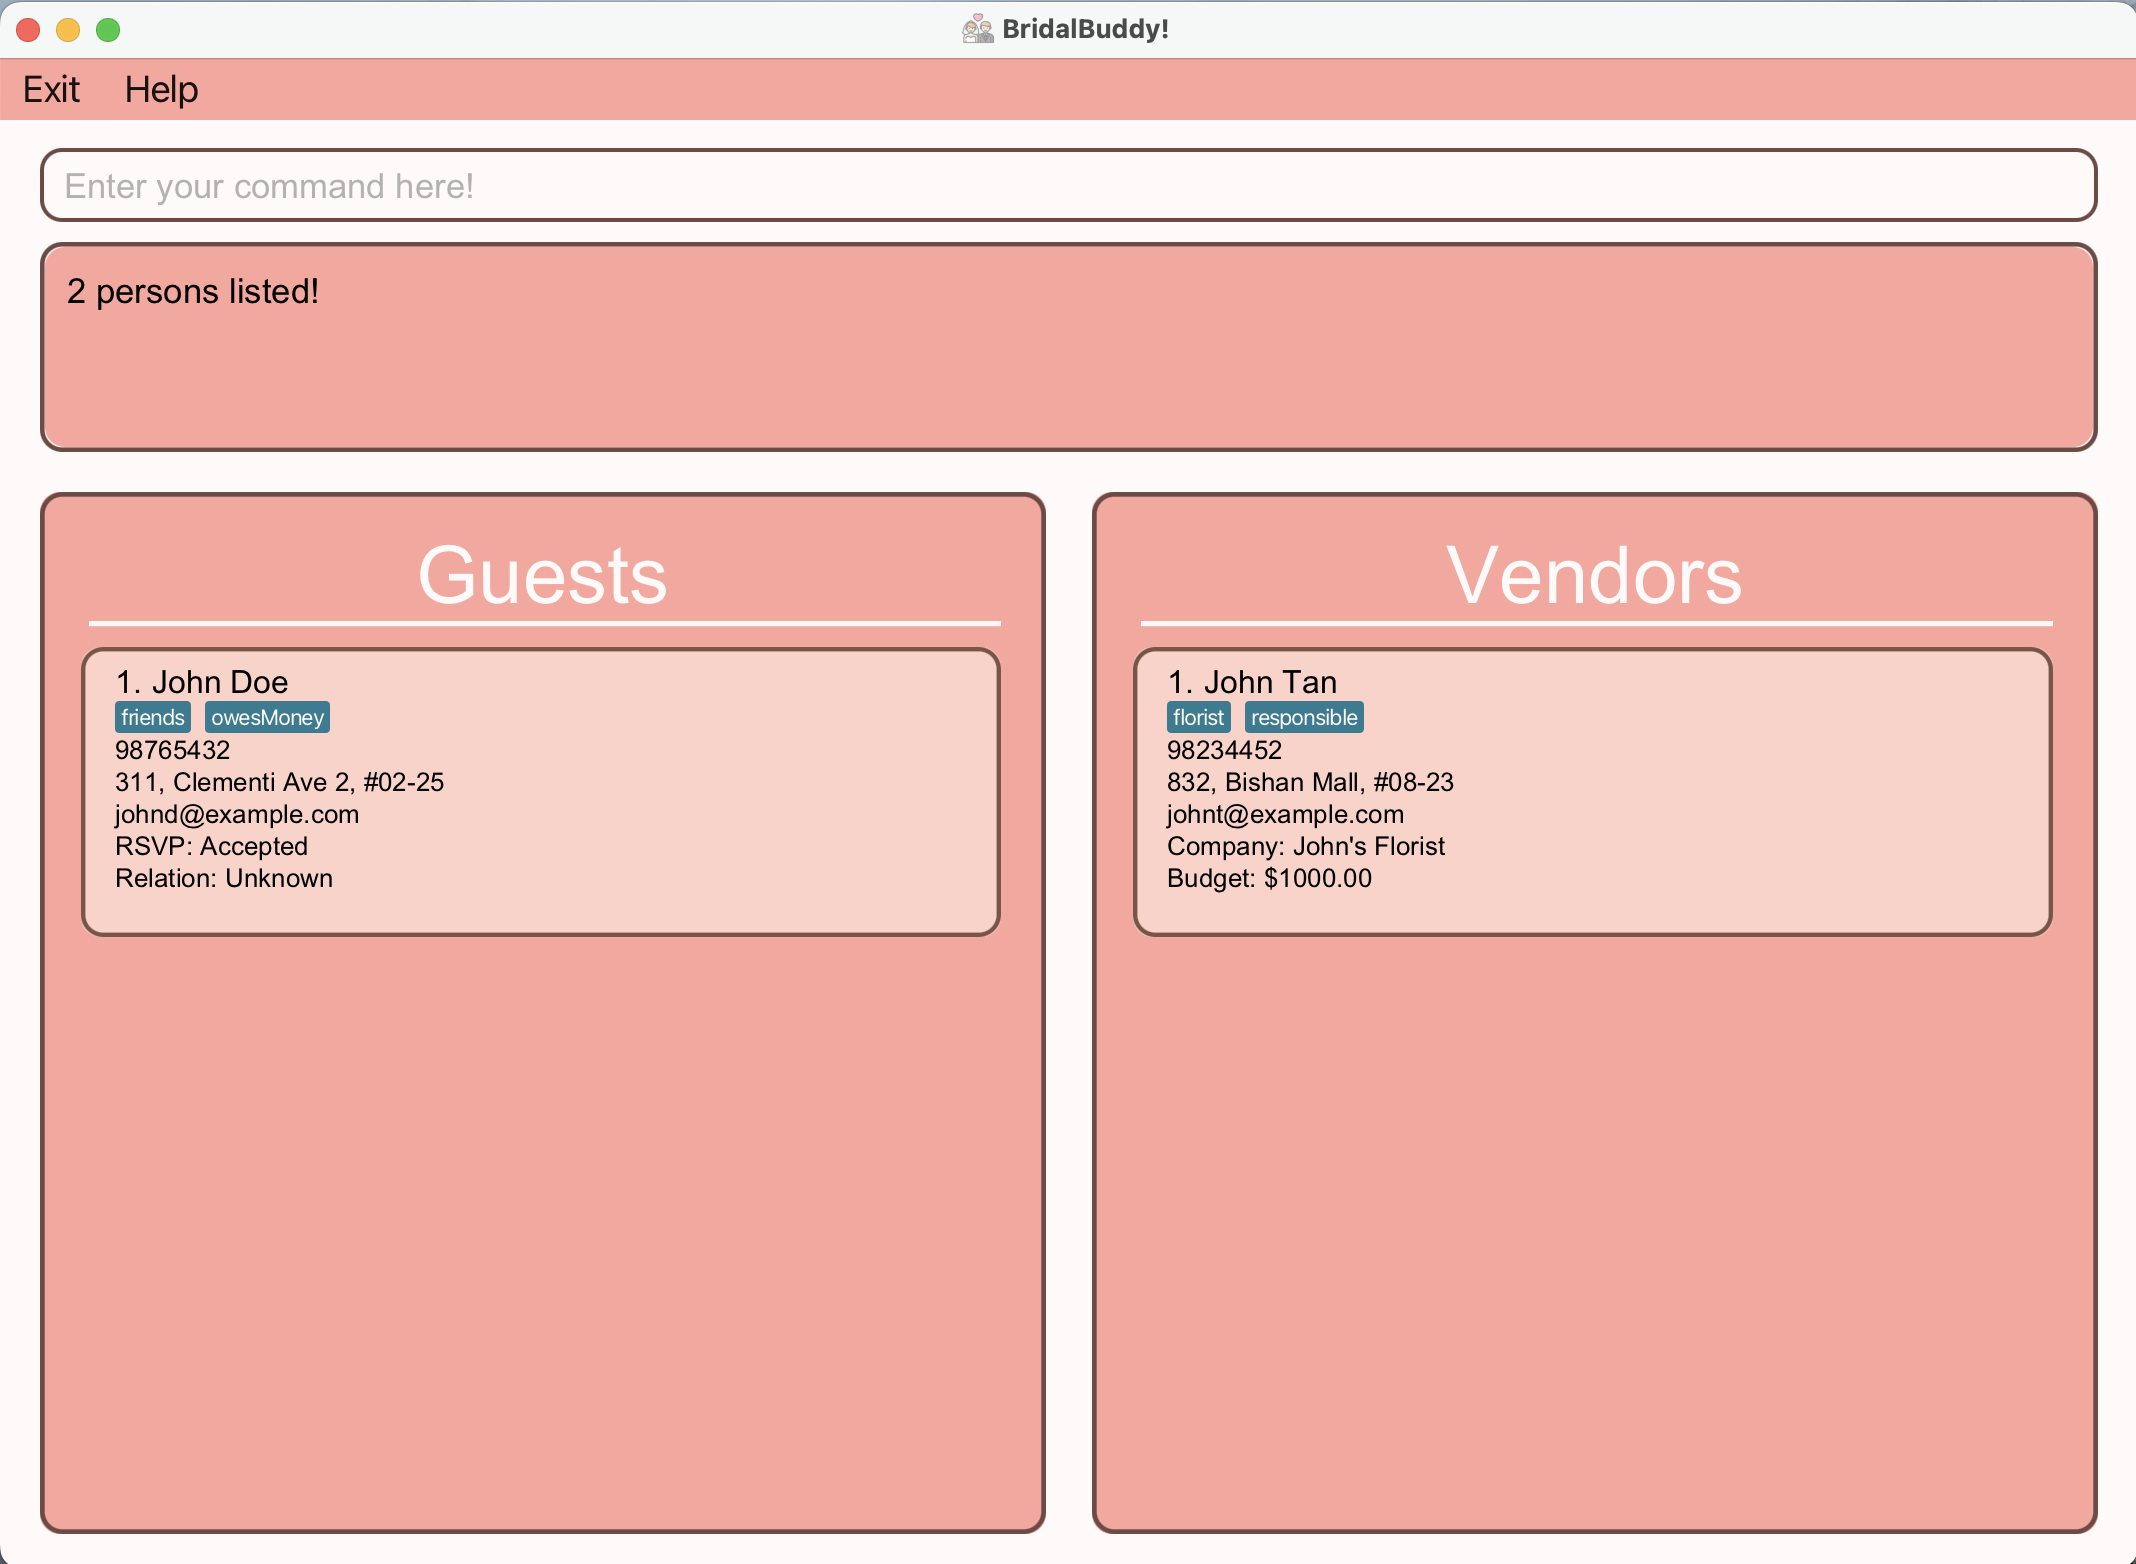
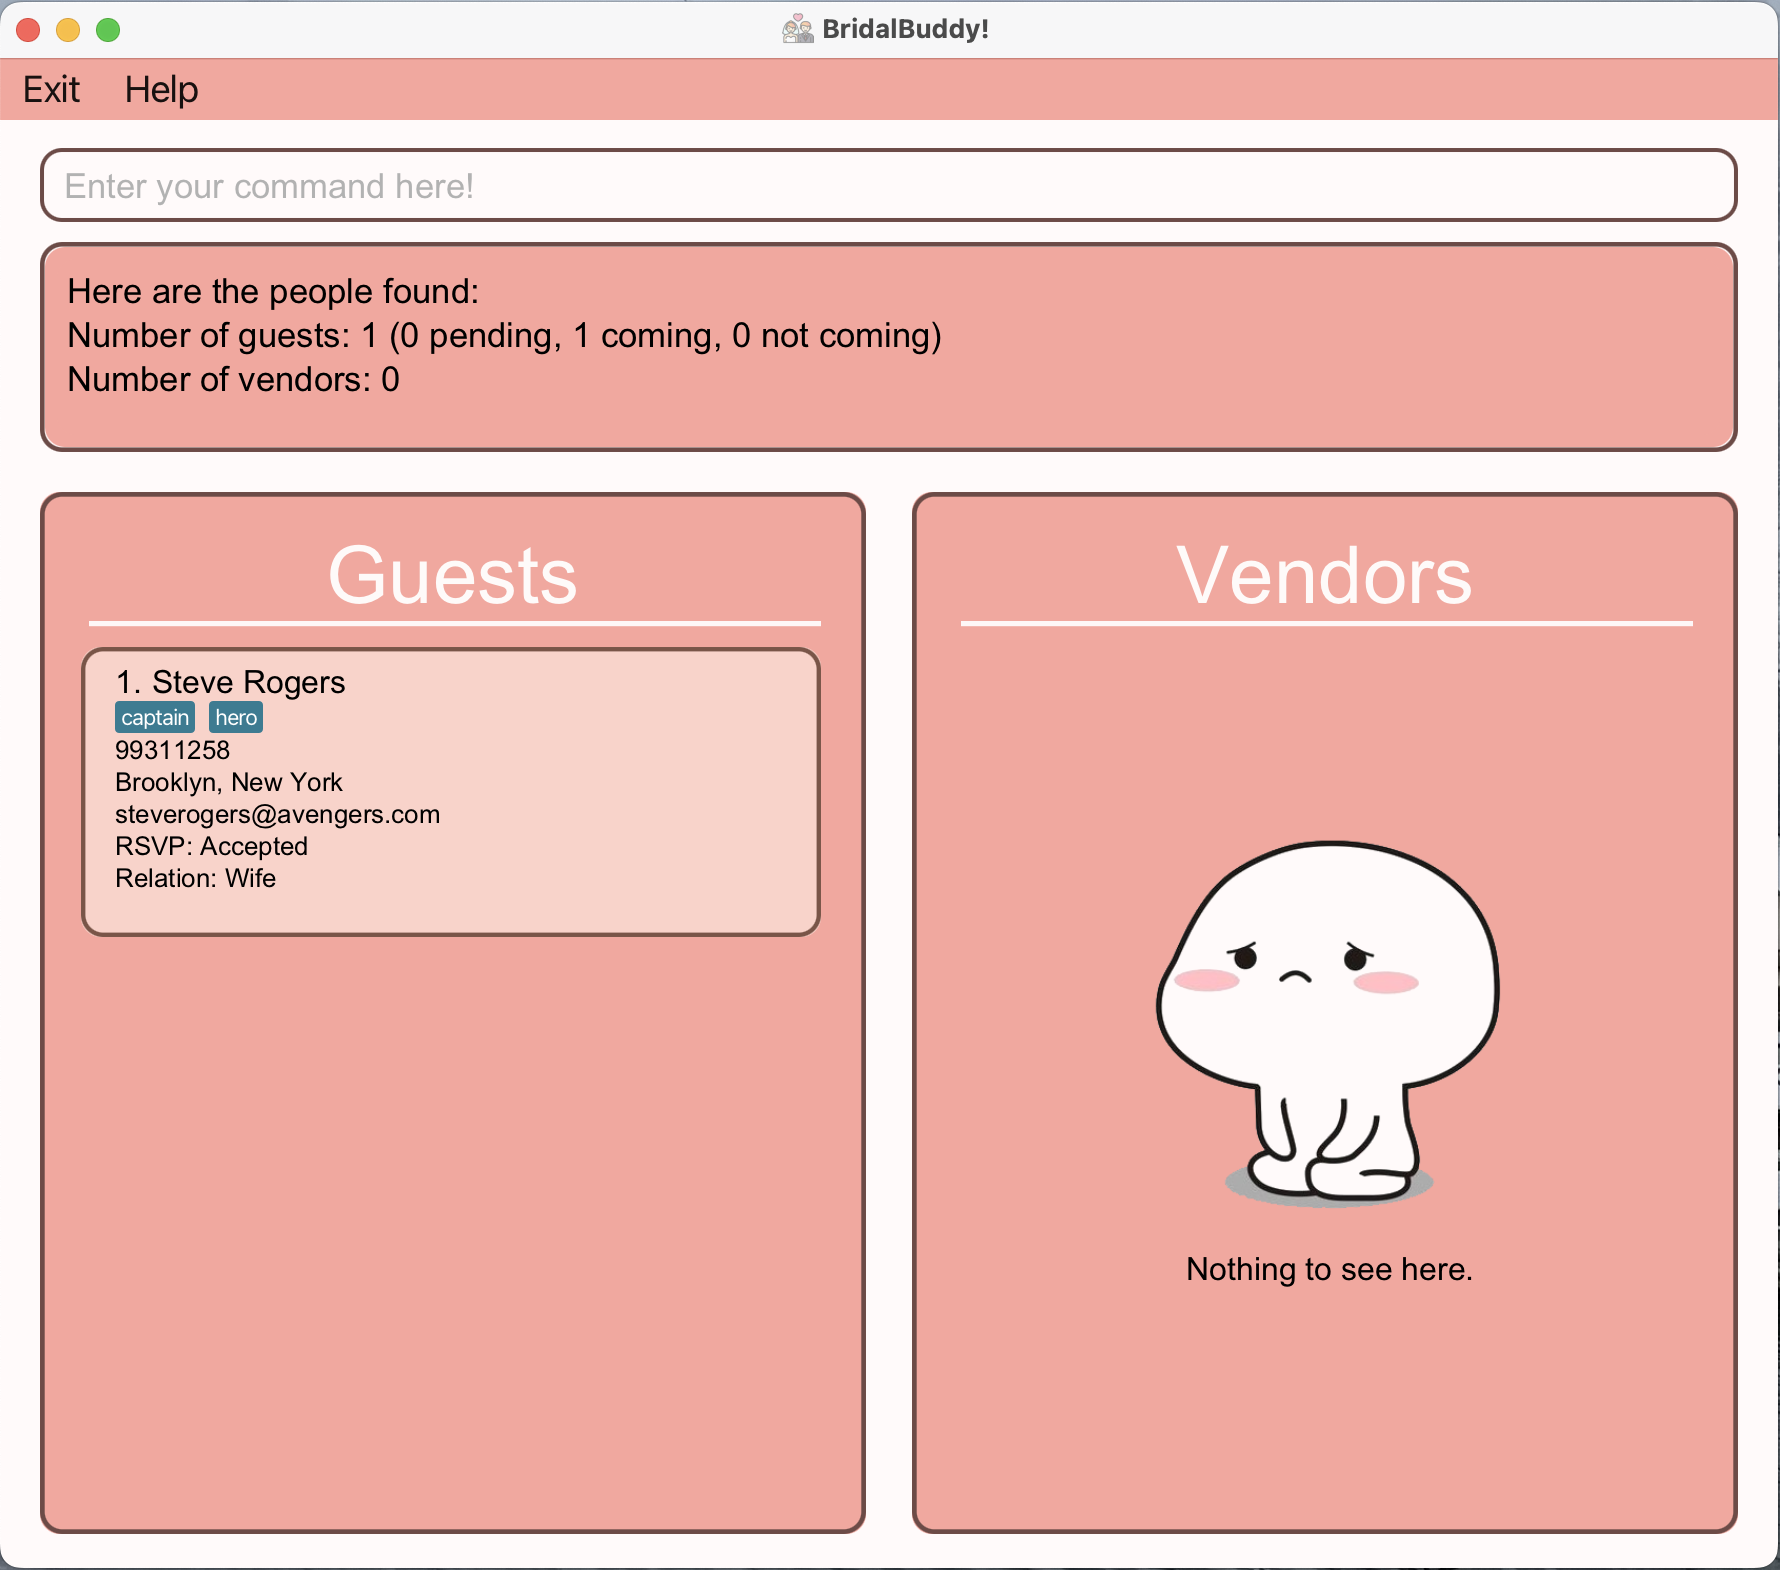
Add new find and stats command screenshots

diff --git a/docs/UserGuide.md b/docs/UserGuide.md
@@ -281,7 +281,7 @@ This command will show you a guest list consisting of all invited guests and a v
 
 **Example Usage:** `list`
 
-Entering the `list` command returns the following result on your screen (with sample `Guest` data and  `Vendor` data):
+Entering the `list` command returns the following result on your screen (using sample `Guest` data and  `Vendor` data):
 
 ![list command](images/listCommand.png)
 
@@ -303,9 +303,9 @@ This command will help you find guests and vendors that match any of the given k
 - Only full words will be matched e.g. `Jo` will not match `John`
 - Guest/Vendor matching **any** of the keywords will be returned (e.g. `John Tan` will return `John Doe` and `Alan Tan`)
 
-**Example Usage:** `find n/John`
+**Example Usage:** `find n/Steve`
 
-Entering the `find n/John` command returns the following result on your screen:
+Entering the `find n/Steve` command returns the following result on your screen (using sample `Guest` data and  `Vendor` data):
 
 ![find command](images/findCommand.png)
 
@@ -335,7 +335,7 @@ This command will display to you the total number of guests invited to the weddi
 
 **Example Usage:** `stats`
 
-Entering the `stats` command returns the following result on your screen:
+Entering the `stats` command returns the following result on your screen (using sample `Guest` data and  `Vendor` data):
 
 ![stats command](images/statsCommand.png)
 
